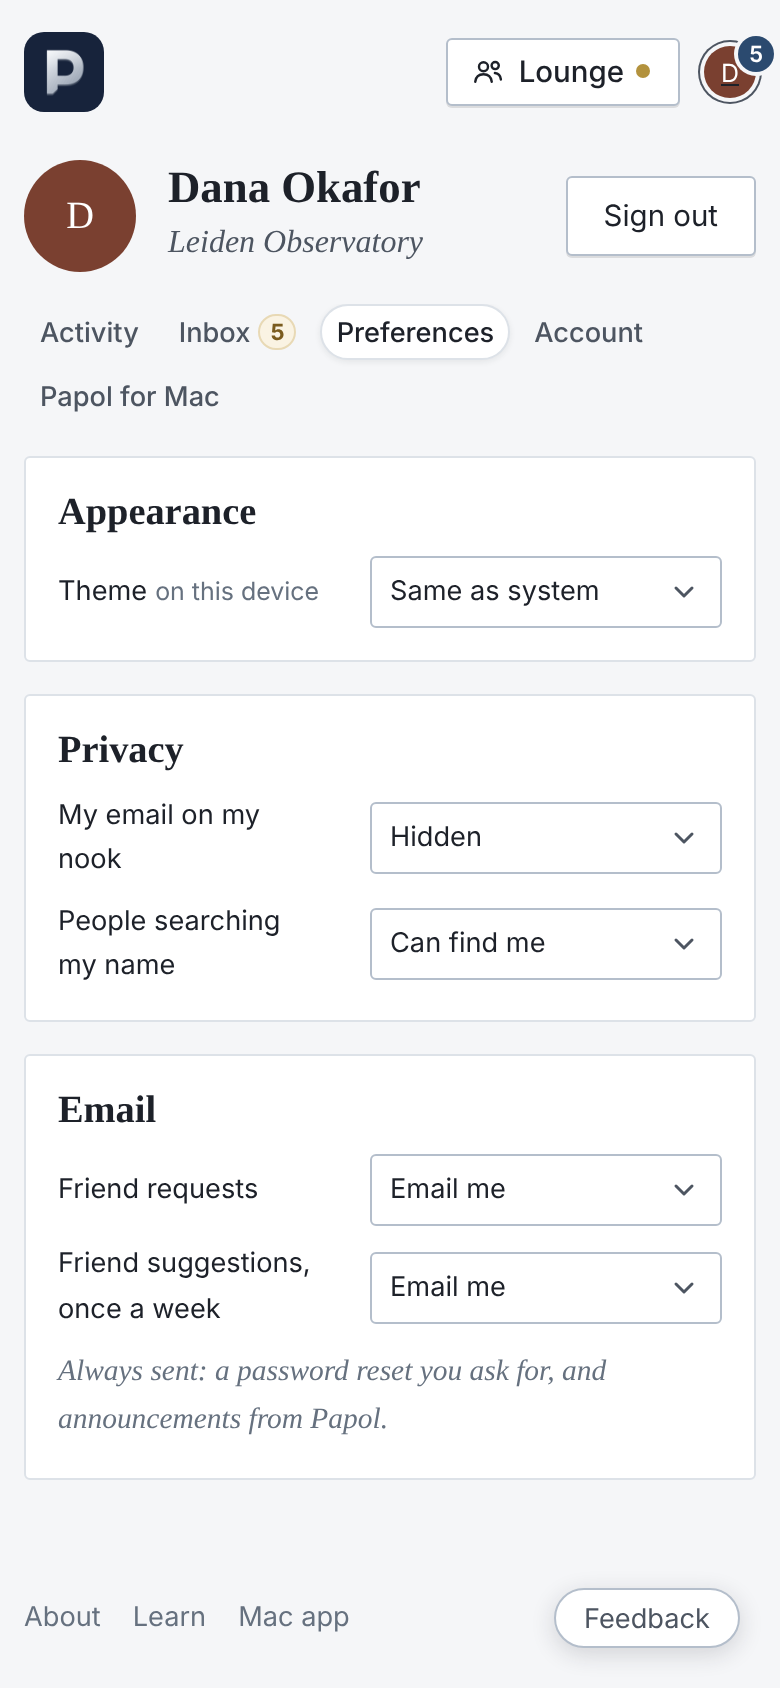
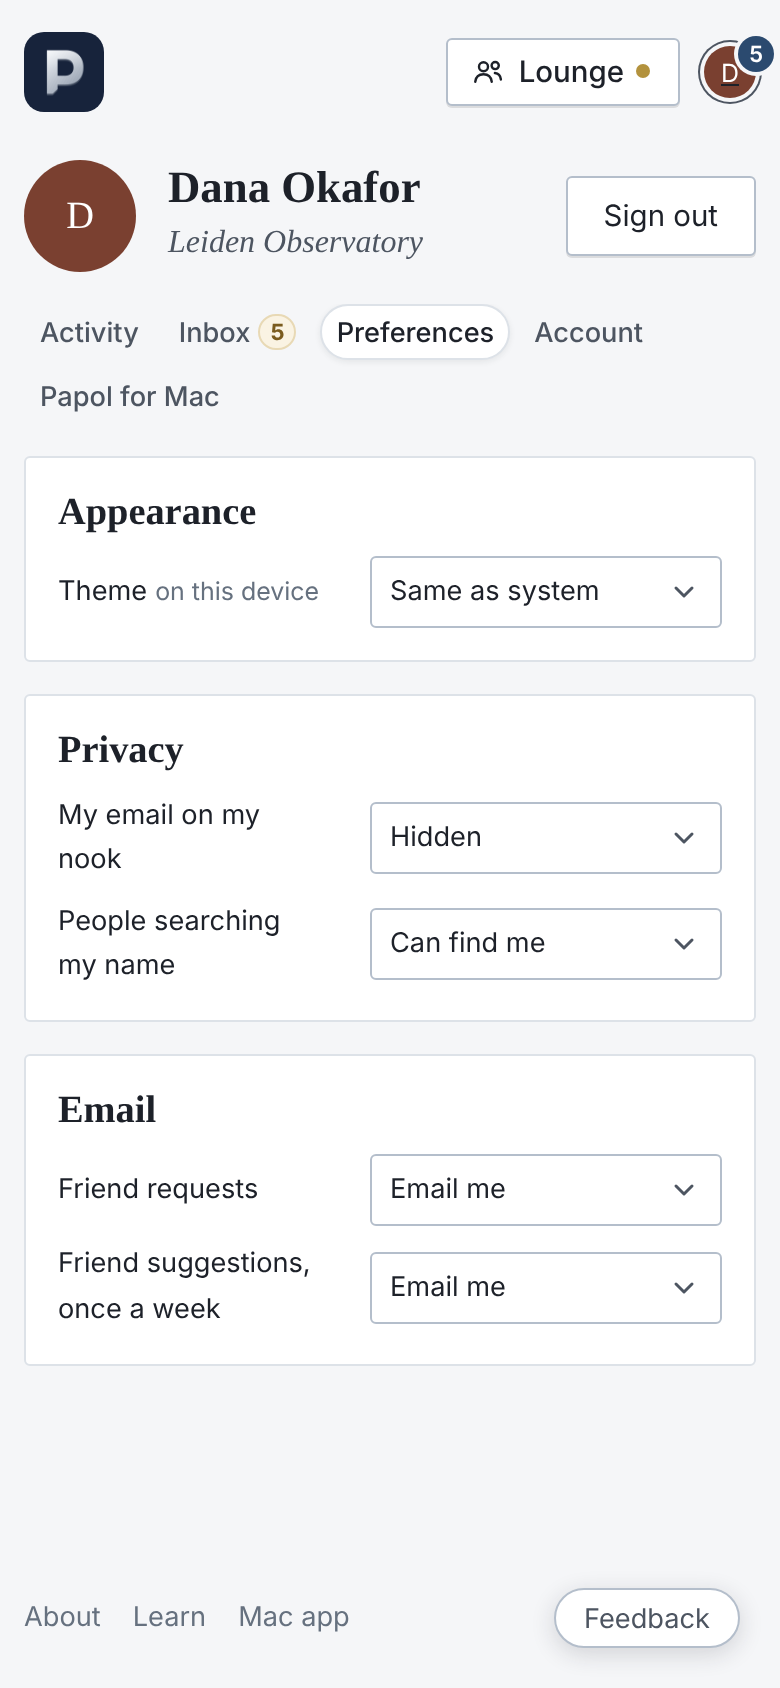
Leave what is always sent out of the Email block
Claude-Session: https://claude.ai/code/session_01PQZzMU77qqqqse6yTdqDJ9

Changed region(s): [[0.0615, 0.8009, 0.7692, 0.8626]]

diff --git a/frontend/src/components/PreferencesPanel.jsx b/frontend/src/components/PreferencesPanel.jsx
@@ -10,8 +10,8 @@ import { chooseTheme, readTheme } from '../../../shared/theme.js';
 //
 // The emails a member may turn off, in the order shown. Which of them
 // this member has is the server's to say (`user.emails`): an admin has one
-// more. What is always sent is named under them, so the block is every
-// email Papol sends.
+// more. What is always sent (a password reset, an announcement) has no
+// row.
 const EMAILS = [
   ['friend_request', 'Friend requests'],
   ['friend_suggestions', 'Friend suggestions, once a week'],
@@ -65,7 +65,6 @@ export default function PreferencesPanel({ user, onUserUpdated }) {
         {EMAILS.filter(([kind]) => kind in emails).map(([kind, label]) => (
           <Fragment key={kind}>{choice(`preference-email-${kind}`, label, emails[kind], 'Email me', 'No email', (on) => ({ emails: { [kind]: on } }))}</Fragment>
         ))}
-        <p className="panel-note preferences-always">Always sent: a password reset you ask for, and announcements from Papol.</p>
       </section>
     </div>
   );

diff --git a/cloudflare/src/emails.ts b/cloudflare/src/emails.ts
@@ -4,7 +4,7 @@
 // sent only to whoever has not turned it off, in the Email block of their
 // Preferences; one without is always sent: a password reset the user
 // asked for a moment ago, and an announcement, which an admin addresses
-// to whoever it is for. A kind with `admins` is one only an admin gets,
+// to whoever it is for; Preferences does not list those. A kind with `admins` is one only an admin gets,
 // and only an admin is shown its choice.
 //
 // What a user turned off is kept on their row, in `email_off`: a JSON

diff --git a/USER_STORIES.md b/USER_STORIES.md
@@ -204,7 +204,7 @@ A friend is someone I chose, who chose me back. Friendship is the third audience
 - **US-9.6** **The Lounge is where friends are added.** Its rail lists my friends, as the nook's rail lists my shelves, and **Find** beside the heading opens a box that finds people by name or email address (an address its owner hides is matched only whole) and puts the friend button under each. Papol also suggests people to ask (US-9.6a). There is no link that befriends whoever opens it. A nook still carries the same button.
 - **US-9.6a** **People you may know.** Above the news, the Lounge names up to three people I may want to ask, each with their face, name and affiliation, one line of why, the friend button, and a small × (**Not interested**) that stops Papol suggesting them to me for good and tells them nothing. Someone I ask keeps their card, its button now reading **Requested**, for a week, so I can take the request back where I made it; whatever they answered short of accepting, the card looks the same, so a quiet Not now stays quiet. When I send one away, or a week passes, or they accept, the next comes up; there is no longer list. Two things make a suggestion and nothing else: a project we are both in (which counts for most), and friends we have in common. Of those friends only how many is said (*2 friends in common*), never who: this is the one place a friendship of someone else's can be inferred, and US-9.7 otherwise stands. Papol never suggests a friend, anyone who asked me, anyone I asked more than a week ago (answered or not), or anyone who set *People searching my name* to *Cannot find me*. The section is not shown while the news is narrowed to one friend, or when there is nobody to suggest.
 - **US-9.6b** **Once a week Papol emails me the people it suggests**, on Monday, up to three, each with the same line of why and a link to their nook. An email names only people no earlier email named, and a week with nobody new sends nothing. A dropdown on my Preferences tab, *Friend suggestions, once a week*, set to *Email me* to begin with, turns it off (*No email*), and every such email says so at its foot with a link to my page. That dropdown is the one way to turn it off: the email carries no link that does it without a sign-in. Turning the email off leaves the Lounge's suggestions as they are.
-- **US-9.6c** **What Papol emails me is chosen in one place**, the *Email* block of my Preferences tab: a dropdown for each kind of email I may turn off, each set to *Email me* to begin with and turned off with *No email*. They are *Friend requests* (the request still reaches my Inbox), *Friend suggestions, once a week* (US-9.6b) and, for an admin only, *Feedback reports* (the report still reaches the admin's Inbox and the admin page). Under them the block names what is always sent: a password reset I ask for, and announcements from Papol. Those two have no dropdown, and no email carries a link that turns it off.
+- **US-9.6c** **What Papol emails me is chosen in one place**, the *Email* block of my Preferences tab: a dropdown for each kind of email I may turn off, each set to *Email me* to begin with and turned off with *No email*. They are *Friend requests* (the request still reaches my Inbox), *Friend suggestions, once a week* (US-9.6b) and, for an admin only, *Feedback reports* (the report still reaches the admin's Inbox and the admin page). A password reset I ask for and announcements from Papol are always sent: they have no dropdown and are not listed. No email carries a link that turns it off.
 
 **Having friends**
 
